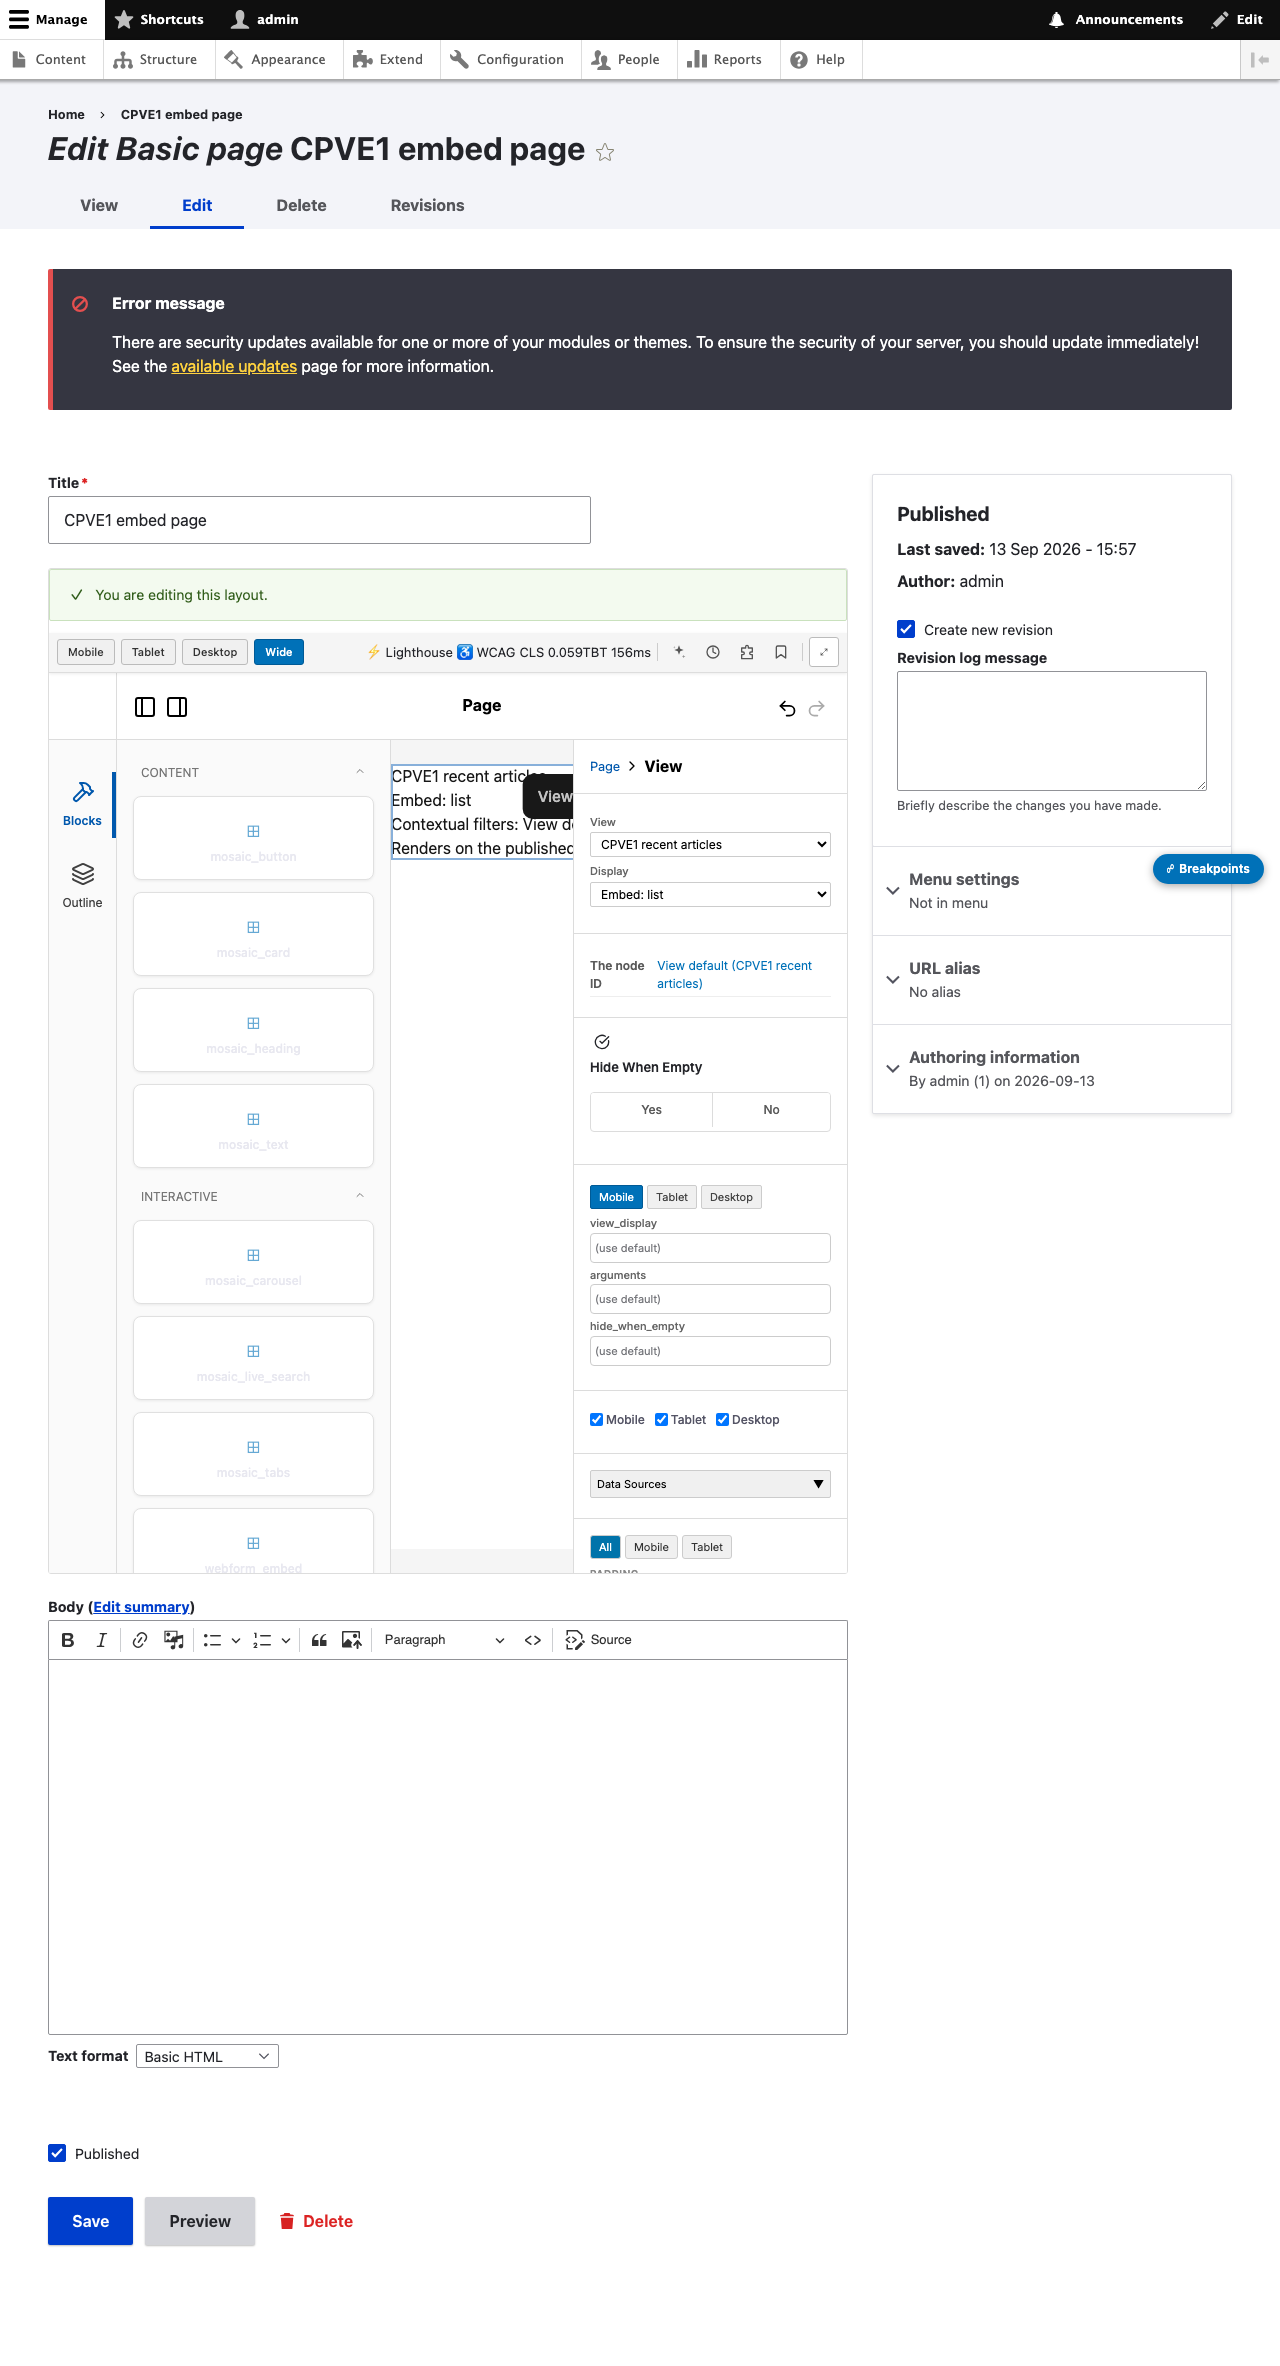
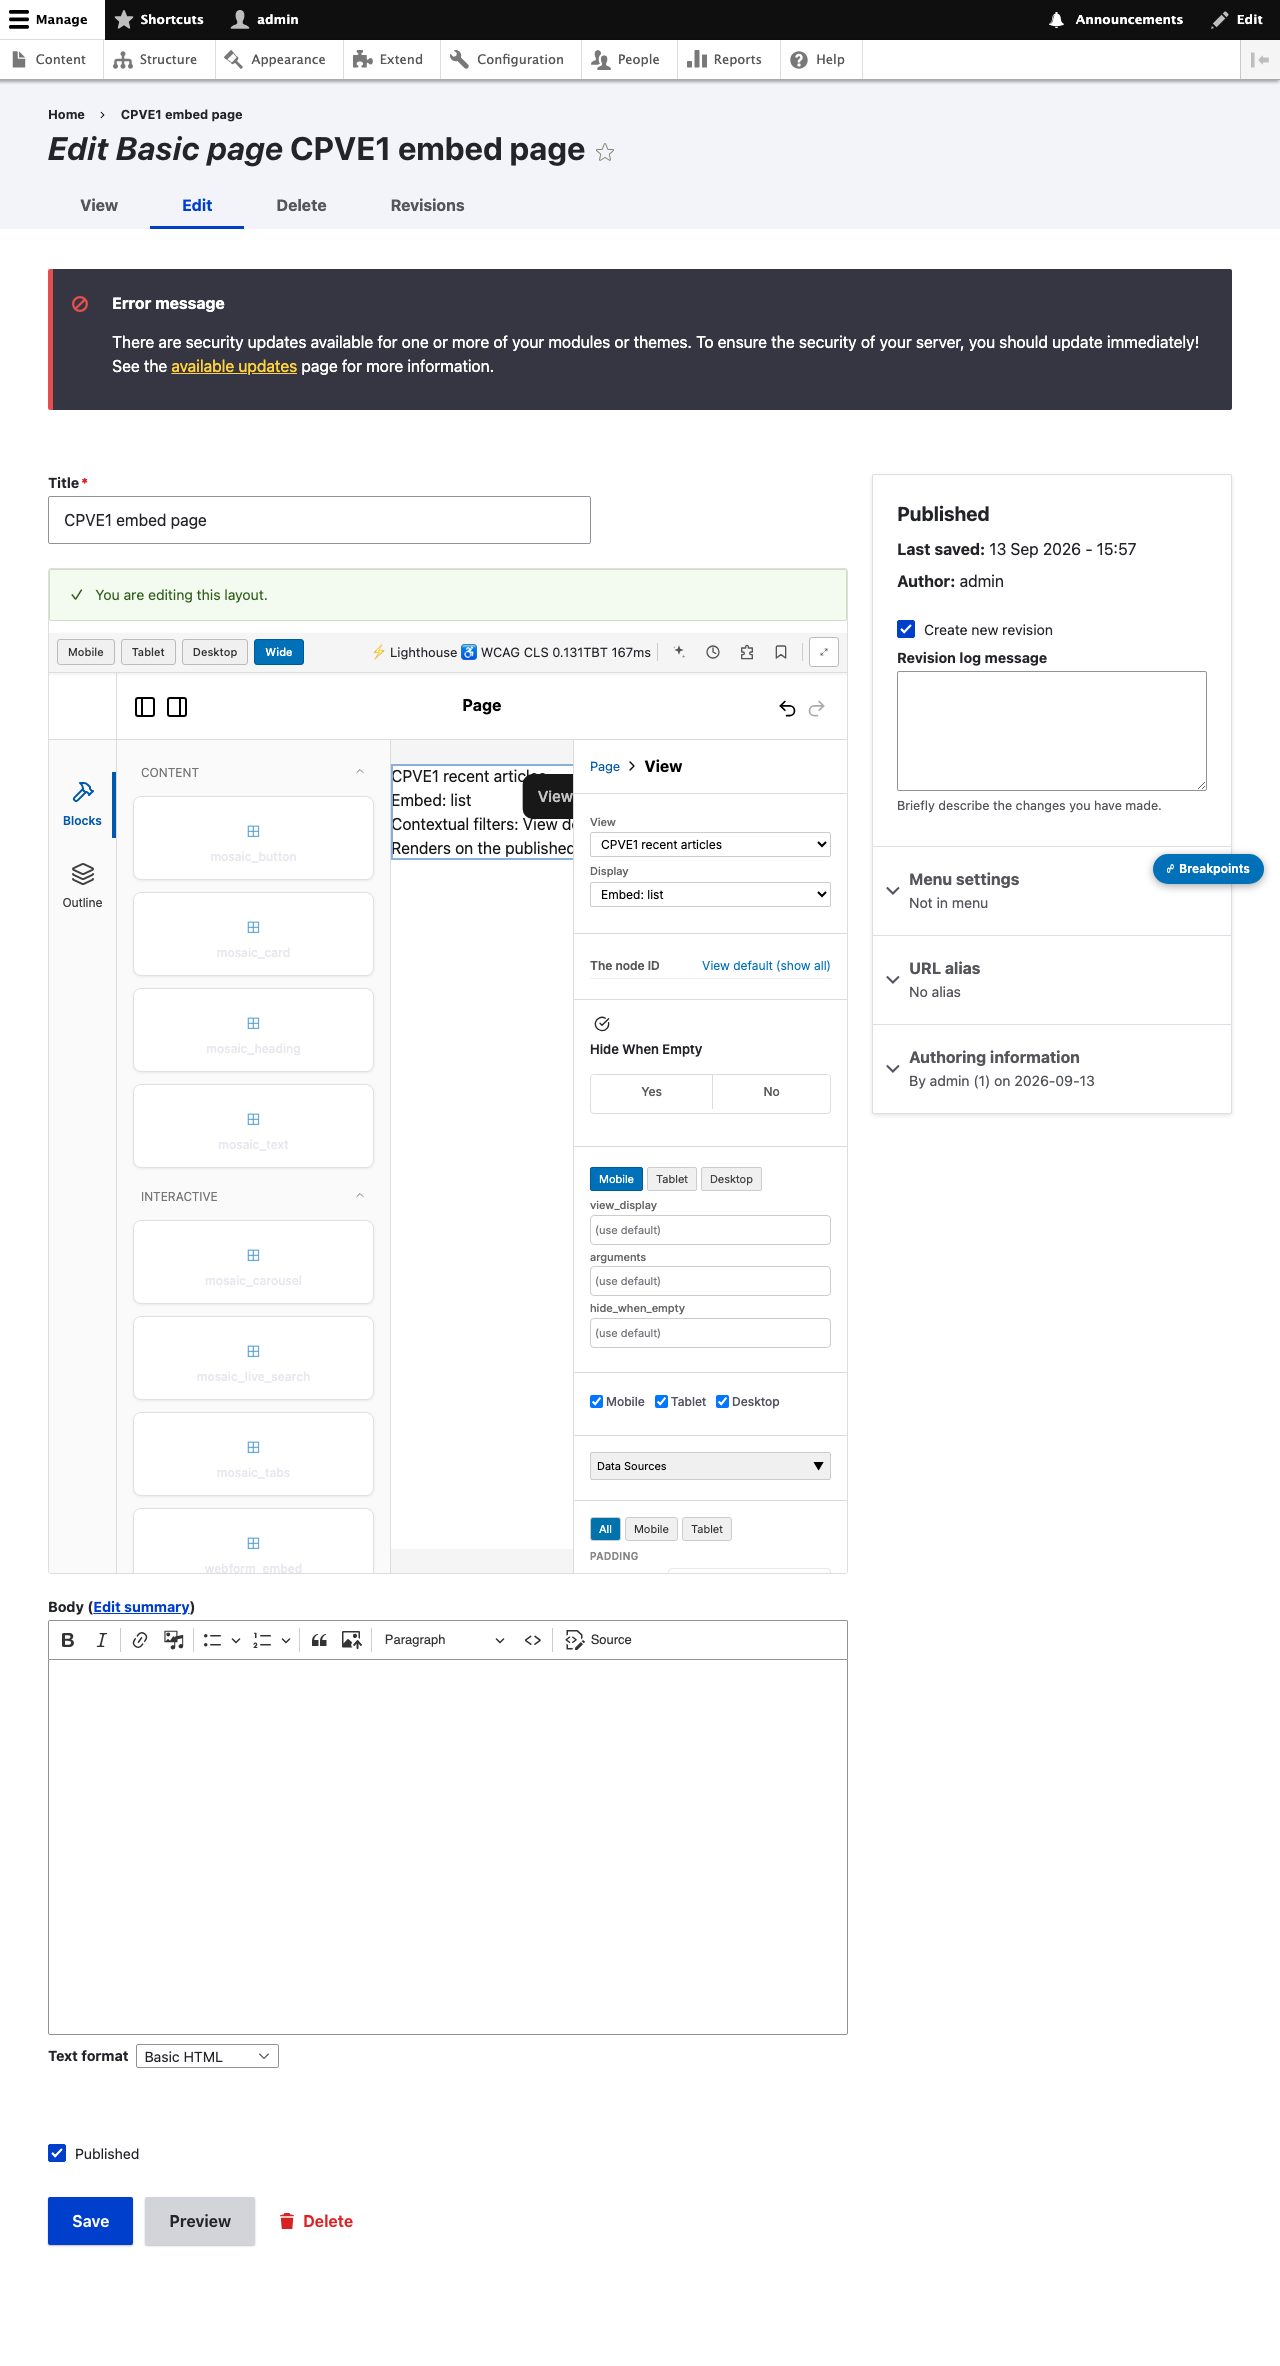
F-105 FIXED (rides ship #36): argument-row default-behavior semantics
Argument-row parenthetical now describes THE ARGUMENT's own default behavior (server-derived
default_behavior_label from default_action + default plugin: ignore->show all, default->plugin
label, not-found->hide view), not the display title. Client renders verbatim per row. RED->GREEN
ViewsArgumentsApiTest (null->'show all', raw excerpt in report) + Vitest updated. Frame 02
refilmed -> 'View default (show all)'. Gates: mosaic_views 20/107, Vitest 511/1 (B-101), PHPCS
ERRORS_0; builder+FE dist rebuilt, renderer untouched. Report: reports/REPORT-CP-VE1.md.

diff --git a/reports/REPORT-CP-VE1.md b/reports/REPORT-CP-VE1.md
@@ -275,3 +275,35 @@ general pre-existing UI, unrelated to the mosaic_view authoring picker.
 (MosaicComponentManager core change — no regression); PHPCS ERRORS_0. **No JS changed** → no dist
 rebuild (renderer/builder/FE bundles untouched; the adapter already handles views_display/
 views_arguments from the prior leg).
+
+---
+
+## F-105 FIX (2026-09-13) — argument-row resolved-value semantics (rides ship #36)
+
+**Y2 wrong plumb:** `MosaicViewsArgumentsField.tsx:58-70` rendered ONE `resolvedLabel` (from
+`payload.resolved.title`, the DISPLAY title) for EVERY argument row — the wrong value class.
+
+**Y3 fix (server-side):** `ViewsArgumentsController` now emits a per-argument
+`default_behavior_label`, derived from the argument's `default_action` (+ `default_argument_type`
+when 'default'): ignore→"show all", not found→"hide view", empty→"empty text", summary→"summary",
+access denied→"access denied", default→the plugin label (fixed→"fixed value", node→"content ID
+from URL", current_user→"current user", query_parameter→"URL query parameter", raw→"raw value from
+URL", user→"user ID from URL", taxonomy_tid→"term ID from URL"). The client renders it verbatim as
+"View default (@default_behavior_label)" PER ROW (the single display-title label is removed).
+
+**RED (before fix) — raw excerpt:**
+```
+1) Drupal\Tests\mosaic_views\Kernel\ViewsArgumentsApiTest::testArgumentDefaultBehaviorLabel
+Failed asserting that null is identical to 'show all'.
+Tests: 1, Assertions: 4, Failures: 1, Warnings: 1.
+```
+**GREEN:** the ignore fixture → `default_behavior_label` = "show all" (never the display title);
+Vitest label cell updated → row reads "View default (show all)".
+
+**Y4 refilm — frame 02 GREEN:** the argument row now reads **"View default (show all)"** (the
+node-ID argument's own default behavior), not "(CPVE1 recent articles)". `02-admin-panel-label-law.png`
+re-captured; album INDEX updated.
+
+**Gates:** mosaic_views Kernel 20 tests / 107 assertions GREEN; Vitest 511/1 (pre-existing B-101);
+PHPCS ERRORS_0. **dist:** builder + frontend-editor rebuilt (MosaicViewsArgumentsField changed);
+renderer.js untouched. Main Unit+Kernel unaffected (no main-module change this leg).

diff --git a/ledger-live/TODO.md b/ledger-live/TODO.md
@@ -12428,3 +12428,17 @@ view/display from getPropDefinitions (raw machine-name fields gone). RED→GREEN
 (CPVE1 recent articles)"; no machine view id). Album 8/8. Gates: mosaic_views 19/102, main 2887/0,
 PHPCS ERRORS_0, no JS/dist. Pre-existing note: breakpoint-override panel lists prop keys for all
 components (not F-104). CP-VE1 panel now shippable.
+
+## F-105 — argument-row resolved-value semantics (reviewer frame-audit, rides ship #36)
+Frame 02's argument row shows the DISPLAY title as the "View default (...)" parenthetical — wrong
+value class. The parenthetical for an ARGUMENT must describe THAT argument's own default behavior:
+default_action=ignore → "(show all)"; default_action=default → the default-argument plugin's label
+(e.g. "(content ID from URL)"); not-available=hide → "(hide view)". Fix server-side: per-argument
+default_behavior_label in the introspection API; client renders it verbatim. RED first.
+
+### F-105 FIXED 2026-09-13 (rides ship #36) — report: reports/REPORT-CP-VE1.md
+Argument-row parenthetical fixed: server-side per-argument default_behavior_label (from
+default_action + default plugin) — ignore→"show all", default→plugin label, not-found→"hide view".
+Client renders verbatim per row (single display-title label removed). RED→GREEN ViewsArgumentsApiTest
+(raw excerpt in report) + Vitest updated. Frame 02 refilmed → "View default (show all)". Gates:
+mosaic_views 20/107, Vitest 511/1 (B-101), PHPCS ERRORS_0; builder+FE dist rebuilt (renderer untouched).

diff --git a/ledger-live/e2e-evidence/cp-ve1/INDEX.md b/ledger-live/e2e-evidence/cp-ve1/INDEX.md
@@ -5,10 +5,10 @@ nodes + a nid contextual filter, default_action=ignore); node 971 embeds the DIS
 
 - `01-admin-placeholder-card.png` — admin canvas: mosaic_view PLACEHOLDER card (view · display ·
   argument summary · "Renders on the published page"). R-V1 no live render. ✅
-- `02-admin-panel-label-law.png` — admin panel (post F-104): the cascading picker with HUMAN
-  labels ("CPVE1 recent articles" / "Embed: list"), the argument row "The node ID", and the
-  PANEL-LABEL-LAW string **"View default (CPVE1 recent articles)"**; the machine view id
-  (cpve1_list) never appears. ✅
+- `02-admin-panel-label-law.png` — admin panel (post F-104 + F-105): the cascading picker with
+  HUMAN labels ("CPVE1 recent articles" / "Embed: list"), the argument row "The node ID", and the
+  PANEL-LABEL-LAW string **"View default (show all)"** — the argument's OWN default behavior
+  (default_action=ignore), not the display title (F-105). The machine view id never appears. ✅
 - `03-fe-dialog-placeholder-card.png` — FE dialog: same placeholder card (F-087 parity). ✅
 - `04a-page-pager-before.png` / `04b-page-pager-after.png` — anon page: the real view + mini
   pager; the AJAX "Next" click swaps the rows (Article 1|2 → 3|4). ✅

diff --git a/ledger-live/SHIP-36.md b/ledger-live/SHIP-36.md
@@ -205,3 +205,16 @@ git add modules/mosaic_views/components/mosaic_view/mosaic_view.mosaic.yml
 git add modules/mosaic_views/src/Plugin/MosaicComponent/MosaicViewComponent.php
 git add modules/mosaic_views/tests/src/Kernel/MosaicViewFieldTypesTest.php
 ```
+
+---
+
+## F-105 FIXED (2026-09-13) — rides ship #36
+Argument-row parenthetical now describes THE ARGUMENT's own default behavior (server-derived
+default_behavior_label from default_action + default plugin), not the display title. RED→GREEN
+ViewsArgumentsApiTest (ignore→"show all") + Vitest updated. Frame 02 refilmed → "View default
+(show all)". Gates: mosaic_views 20/107, Vitest 511/1 (B-101), PHPCS ERRORS_0; builder+FE dist
+rebuilt, renderer untouched.
+Add: git add modules/mosaic_views/src/Controller/ViewsArgumentsController.php
+     git add modules/mosaic_views/tests/src/Kernel/ViewsArgumentsApiTest.php
+     git add js/src/builder/fields/MosaicViewsArgumentsField.tsx
+     git add js/src/builder/fields/__tests__/viewsFields.test.tsx js/dist/builder.js js/dist/frontend-editor.js
